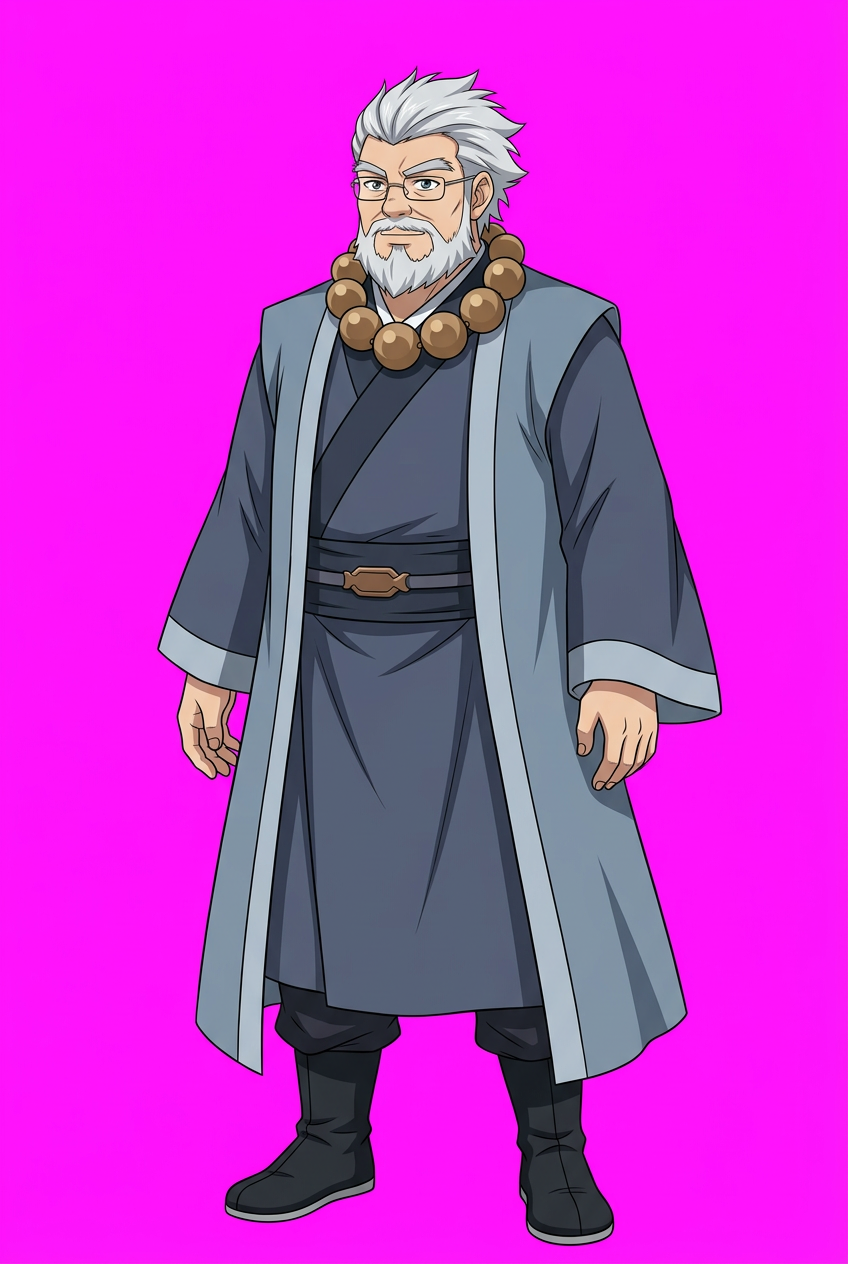
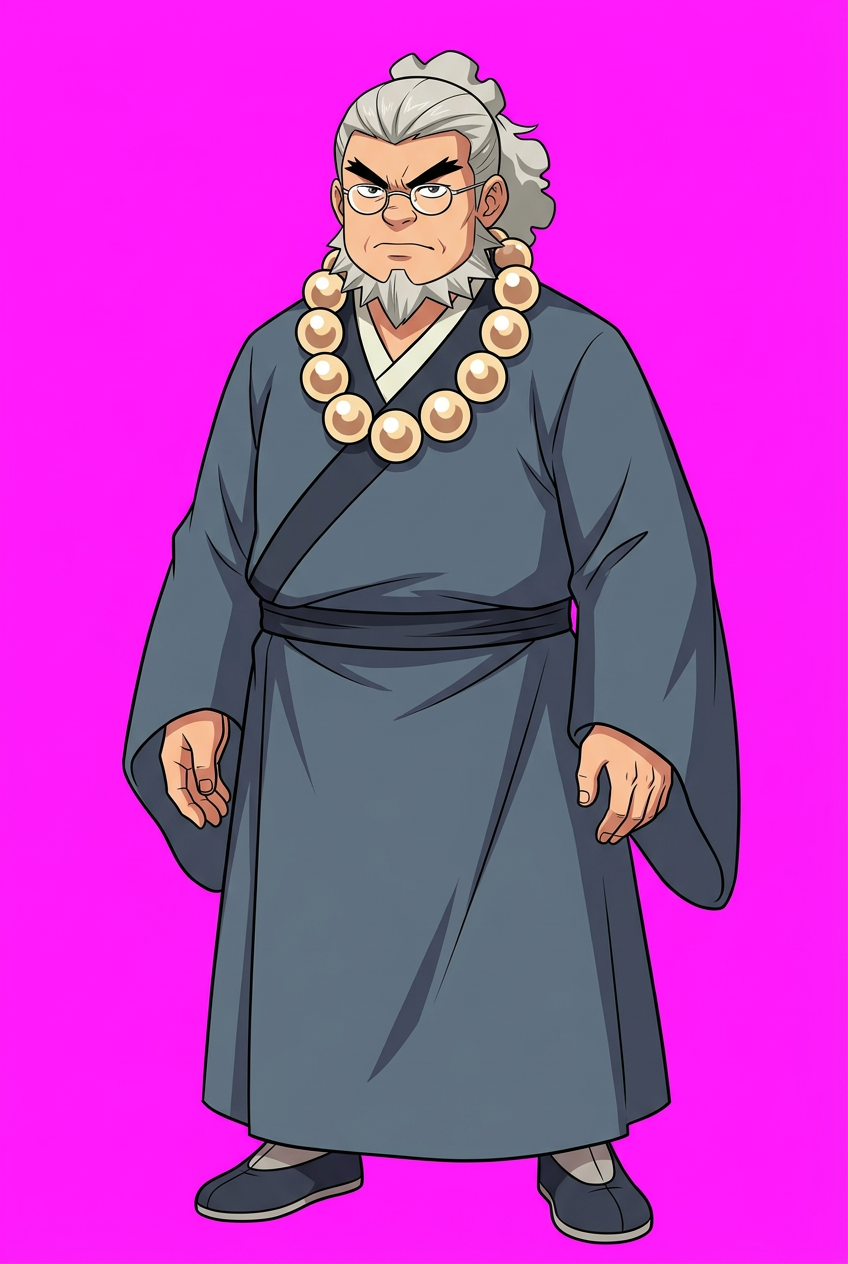
recheck: 萧战 redrawn from manhua ch1-2 (glasses); 葛叶 ok

diff --git a/dev/design/漫画复核进度.md b/dev/design/漫画复核进度.md
@@ -12,3 +12,6 @@
 | 薰儿（第1章） | xuner | 1 | ✅ 一致（黑长发、白蓝裙、金靴），用户已认可 |
 | 萧炎（第1章） | xiaoyan | 1 | 用户已认可；漫画第1话为橙色上衣，章节换装时按漫画做 |
 | 纳兰嫣然 | nalan | 1-2（粉双马尾、白衬衫红裙） | ⏳ Boss 按第2章三年之约那一话核对 |
+| 萧战 | xiaozhan | 1-2（退婚） | ❌→已重画（圆框眼镜、粗黑眉、灰发后束、灰山羊胡、大木珠、深蓝灰袍） |
+| 葛叶 | geye | 1-2 | ✅ 一致（白发白长须、白袍） |
+| 纳兰嫣然 | nalan | 1-2 退婚=粉发+白粉水手服粉百褶裙（仅剧情插图）；Boss 用 74-75 三年之约 | 待核对 74-75 |
